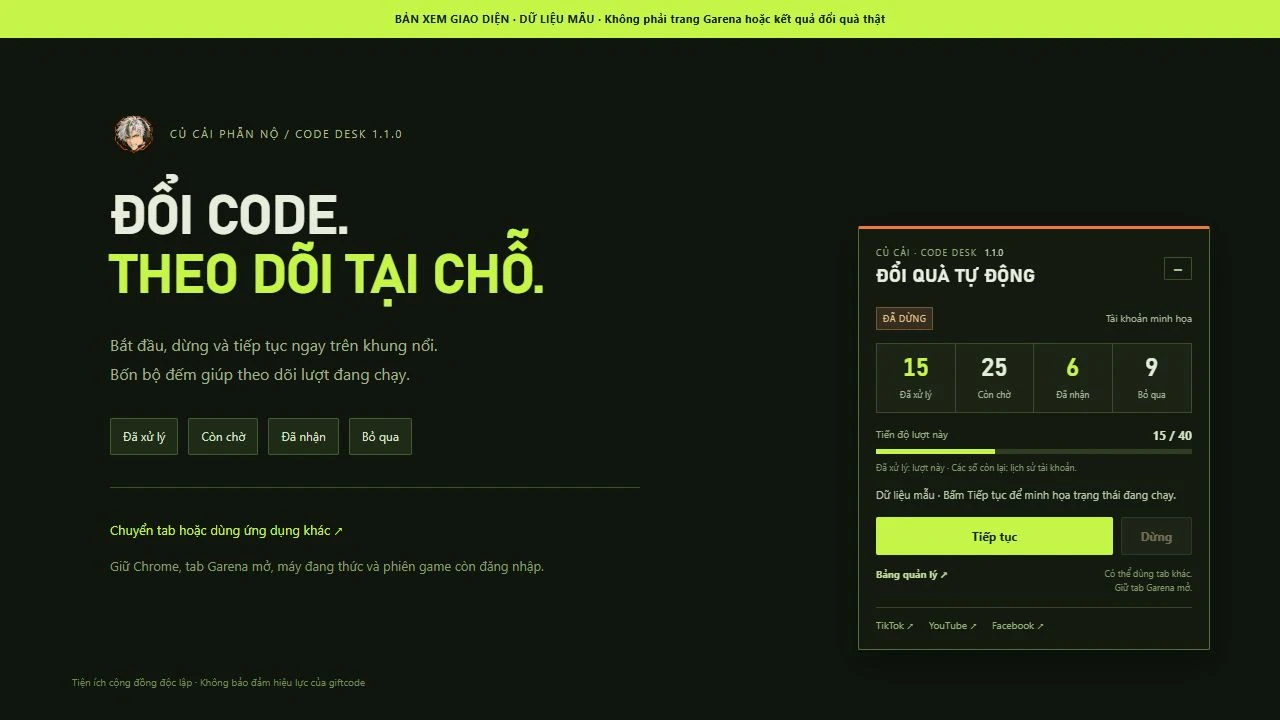
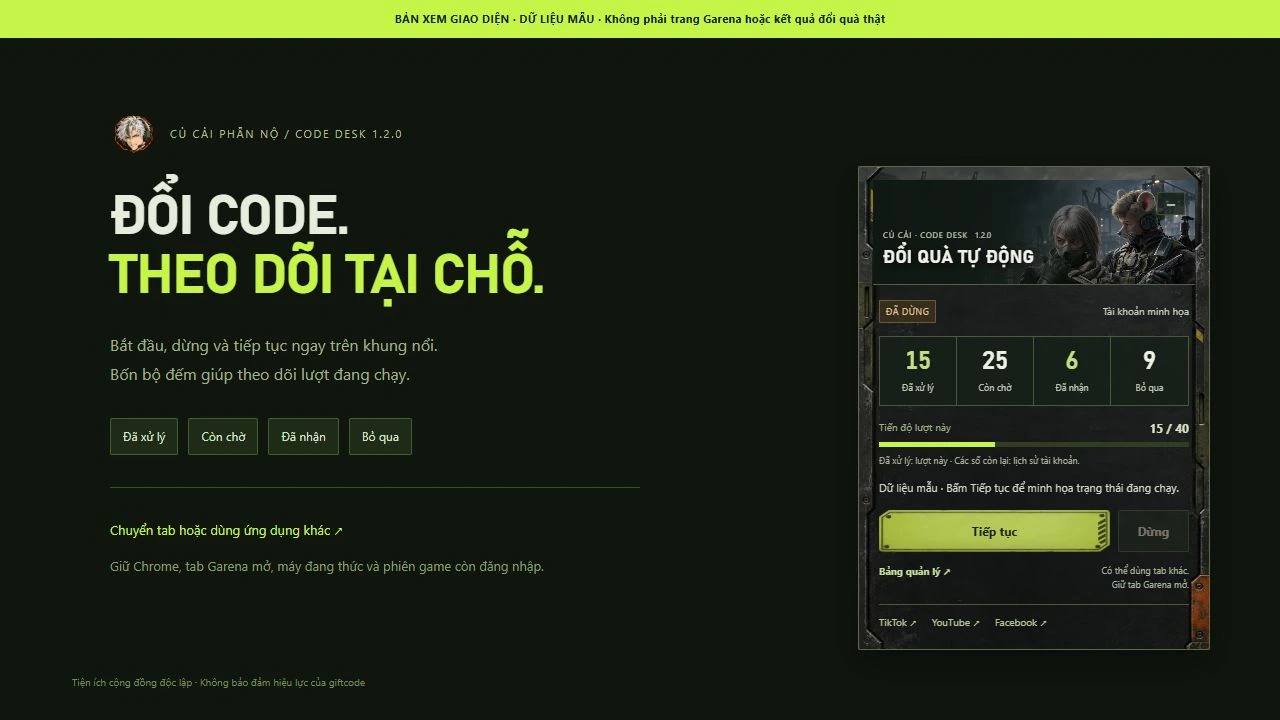
Upgrade Delta Force field artwork and source suggestions in 1.2.0

Changed region(s): [[0.6562, 0.2139, 0.9688, 0.8861], [0.6875, 0.8556, 0.8125, 0.8861], [0.9375, 0.7028, 0.9688, 0.7333]]

diff --git a/extension/options.html b/extension/options.html
@@ -1,15 +1,15 @@
 <!doctype html>
-<html lang="vi"><head><meta charset="utf-8"><meta name="viewport" content="width=device-width,initial-scale=1"><title>Củ Cải · Garena Code Desk</title><link rel="stylesheet" href="style.css"><link rel="stylesheet" href="tactical.css"></head>
-<body class="dashboard"><aside class="desk-sidebar"><a class="sidebar-brand" href="#tong-quan"><img src="icons/48.png" alt="Icon Code Desk" width="48" height="48"><span>CODE<br>DESK<span class="brand-dot">.</span></span></a><div class="sidebar-edition">CỦ CẢI PHẪN NỘ<br><b>DELTA FORCE / GARENA VN</b></div><nav class="sidebar-nav" aria-label="Điều hướng bảng quản lý"><a href="#tong-quan"><span>01</span> Tổng quan</a><a href="#nhap-code"><span>02</span> Nhập code</a><a href="#lich-nguon"><span>03</span> Lịch & nguồn</a><a href="#ket-qua"><span>04</span> Kết quả</a><a href="#gioi-thieu"><span>05</span> Giới thiệu</a></nav><div class="sidebar-bottom"><a href="help.html" target="_blank" rel="noopener">Hướng dẫn sử dụng ↗</a><a href="https://github.com/LightHaru/garena-code-desk" target="_blank" rel="noopener">GitHub & phiên bản mới ↗</a><span>1.1.2 / BẢN THỬ NGHIỆM</span></div></aside>
+<html lang="vi"><head><meta charset="utf-8"><meta name="viewport" content="width=device-width,initial-scale=1"><title>Củ Cải · Garena Code Desk</title><link rel="stylesheet" href="style.css"><link rel="stylesheet" href="tactical.css"><link rel="stylesheet" href="field.css"></head>
+<body class="dashboard"><aside class="desk-sidebar"><a class="sidebar-brand" href="#tong-quan"><img src="icons/48.png" alt="Icon Code Desk" width="48" height="48"><span>CODE<br>DESK<span class="brand-dot">.</span></span></a><div class="sidebar-edition">CỦ CẢI PHẪN NỘ<br><b>DELTA FORCE / GARENA VN</b></div><nav class="sidebar-nav" aria-label="Điều hướng bảng quản lý"><a href="#tong-quan"><span>01</span> Tổng quan</a><a href="#nhap-code"><span>02</span> Nhập code</a><a href="#lich-nguon"><span>03</span> Lịch & nguồn</a><a href="#ket-qua"><span>04</span> Kết quả</a><a href="#gioi-thieu"><span>05</span> Giới thiệu</a></nav><div class="sidebar-bottom"><a href="help.html" target="_blank" rel="noopener">Hướng dẫn sử dụng ↗</a><a href="https://github.com/LightHaru/garena-code-desk" target="_blank" rel="noopener">GitHub & phiên bản mới ↗</a><span>1.2.0 / BẢN THỬ NGHIỆM</span></div></aside>
 <div class="app-shell"><header class="app-header"><div class="header-path">CODE DESK <span>/</span> BẢNG ĐIỀU KHIỂN</div><div class="header-right"><span class="local-tag"><i></i> Dữ liệu trên máy</span><button id="open-site" class="secondary">Trang đổi quà ↗</button></div></header>
-<main><section class="intro" id="tong-quan"><div><div class="eyebrow">TIỆN ÍCH CỘNG ĐỒNG / 1.1.2</div><h2>GIFT CODE.<br><span>GỌN MỘT CHỖ.</span></h2><p>Thêm danh sách, quét nguồn mới và theo dõi từng lượt đổi.</p></div><div class="intro-actions"><button id="refresh" class="secondary">↻ Quét nguồn ngay</button><button id="start" class="primary">Bắt đầu đổi <span>↗</span></button><button id="pause" class="secondary danger">Dừng lượt</button></div></section>
+<main><section class="intro" id="tong-quan"><div><div class="eyebrow">TIỆN ÍCH CỘNG ĐỒNG / 1.2.0</div><h2>GIFT CODE.<br><span>GỌN MỘT CHỖ.</span></h2><p>Thêm danh sách, quét nguồn mới và theo dõi từng lượt đổi.</p></div><div class="intro-actions"><button id="refresh" class="secondary">↻ Quét nguồn ngay</button><button id="start" class="primary">Bắt đầu đổi <span>↗</span></button><button id="pause" class="secondary danger">Dừng lượt</button></div></section>
 <div id="notice" class="notice" role="status" hidden></div>
 <section class="stats-grid" aria-label="Thống kê code"><article><span>Trong hàng chờ</span><b id="stat-waiting">0</b><small id="stat-deferred">Sẵn sàng thử trên Garena</small></article><article><span>Đã nhận thành công</span><b id="stat-redeemed">0</b><small>Garena đã xác nhận</small></article><article><span>Đã tự bỏ qua</span><b id="stat-skipped">0</b><small>Đã dùng · hết hạn · hết lượt</small></article><article><span>Cần kiểm tra</span><b id="stat-review">0</b><small>Kết quả chưa rõ, vẫn giữ code</small></article></section>
 <section class="runner-bar"><div class="runner-symbol" id="runner-symbol">Ⅱ</div><div><div class="eyebrow" id="run-status">SẴN SÀNG</div><p id="run-reason">Đang đọc dữ liệu…</p></div><div class="runner-account"><small>TÀI KHOẢN GARENA</small><b id="account-name">Chưa kết nối</b></div></section>
-<div class="workspace-grid"><section class="card" id="nhap-code"><div class="section-index">02 / DANH SÁCH</div><div class="section-title"><h3>Thêm code của bạn</h3><span class="pill">TXT / CSV / JSON</span></div><p class="subtle">Dán code, mỗi dòng một mã. Chữ hoa/thường được giữ nguyên; code trùng tự bỏ qua.</p><textarea id="import-text" rows="5" placeholder="Dán danh sách giftcode vào đây…" aria-label="Danh sách code"></textarea><div class="button-row"><button id="import" class="primary">Thêm vào hàng chờ</button><label class="file-button secondary">Chọn file<input type="file" id="import-file" accept=".txt,.csv,.json,text/plain,application/json"></label></div><small class="hint" id="seed-info"></small></section>
+<div class="workspace-grid"><section class="card" id="nhap-code"><div class="section-index">02 / DANH SÁCH</div><div class="section-title"><h3>Thêm code của bạn</h3><span class="pill">TXT / CSV / JSON</span></div><p class="subtle">Dán code, mỗi dòng một mã. Chữ hoa/thường được giữ nguyên; code trùng tự bỏ qua.</p><textarea id="import-text" rows="5" placeholder="Dán danh sách giftcode vào đây…" aria-label="Danh sách code"></textarea><div class="button-row"><button id="import" class="primary">Thêm vào hàng chờ</button><label class="file-button secondary">Chọn file<input type="file" id="import-file" accept=".txt,.csv,.json,text/plain,application/json"></label></div><div class="research-import"><button id="research-codes" class="secondary" type="button">Dán 2 mã tìm thêm · 18/10</button><p class="hint">WELCOMETODF · DFVNA4T8Z6P3 — ứng viên từ nhiều nguồn, chưa đổi thử.</p></div><small class="hint" id="seed-info"></small></section>
 <section class="card schedule-card" id="lich-nguon"><div class="section-index">03 / TỰ ĐỘNG</div><div class="section-title"><h3>Lịch & nhịp xử lý</h3><span class="pill">Giờ Việt Nam</span></div><label class="switch-row"><span>Quét nguồn hằng ngày</span><input type="checkbox" id="daily-enabled"></label><div class="form-row"><label>Giờ quét<input type="time" id="daily-time" value="09:00"></label><label>Chờ giữa hai code<select id="delay"><option value="3">3 giây</option><option value="5">5 giây</option><option value="8">8 giây</option><option value="10">10 giây</option><option value="15">15 giây</option><option value="30">30 giây</option><option value="60">60 giây</option></select></label></div><label class="switch-row"><span>Quét xong, tự mở Garena và đổi code mới</span><input type="checkbox" id="auto-redeem"></label><div class="button-row"><button id="save-settings" class="secondary">Lưu lịch</button><small id="next-alarm" class="hint"></small></div><p class="footnote">Cần mở Chrome và đăng nhập Garena. Nếu máy ngủ hoặc Chrome đóng, lịch được kiểm tra bù khi mở lại.</p></section></div>
-<section class="card sources-card"><div class="section-title"><div><h3>Nguồn lấy code</h3><p class="subtle" id="crawl-summary">Đang đọc nguồn…</p></div><button id="add-source-toggle" class="secondary">+ Thêm nguồn</button></div><div id="sources"></div><form id="source-form" class="source-form" hidden><label>Tên nguồn<input id="source-name" placeholder="Tên dễ nhớ"></label><label>URL HTTPS<input id="source-url" type="url" placeholder="https://…" required></label><div class="form-row"><label>Định dạng<select id="source-kind"><option value="html">Trang HTML</option><option value="text">Danh sách TXT / CSV</option><option value="json">JSON: mảng code / {codes: [...]}</option></select></label><label>Vùng chứa code (tùy chọn)<input id="source-selector" placeholder="Ví dụ: table tbody td:first-child"></label></div><button class="primary" type="submit">Cấp quyền & thêm nguồn</button></form><p class="footnote">XemGì là nguồn cộng đồng. Bộ quét Garena đọc bài tin công khai có chữ; code trong ảnh, video hoặc bình luận cần dán bổ sung.</p></section>
+<section class="card sources-card"><div class="section-title"><div><h3>Nguồn lấy code</h3><p class="subtle" id="crawl-summary">Đang đọc nguồn…</p></div><button id="add-source-toggle" class="secondary">+ Thêm nguồn</button></div><div id="sources"></div><form id="source-form" class="source-form" hidden><div class="source-presets"><label>Chọn nguồn đã khảo sát<select id="source-preset"><option value="">Tự nhập nguồn khác</option><option value="codemoi">Code Mới · 20 mã đọc được</option><option value="fpt">FPT Shop · 11 mã đọc được</option><option value="dienmayxanh">Điện máy XANH · 19 mã đọc được</option></select></label><p>Khảo sát 18/10/2026. Chọn nguồn để điền sẵn, sau đó bấm Cấp quyền & thêm nguồn. Số mã có thể thay đổi; hiệu lực do Garena xác nhận.</p></div><label>Tên nguồn<input id="source-name" placeholder="Tên dễ nhớ"></label><label>URL HTTPS<input id="source-url" type="url" placeholder="https://…" required></label><div class="form-row"><label>Định dạng<select id="source-kind"><option value="html">Trang HTML</option><option value="text">Danh sách TXT / CSV</option><option value="json">JSON: mảng code / {codes: [...]}</option></select></label><label>Vùng chứa code (tùy chọn)<input id="source-selector" placeholder="Ví dụ: table tbody td:first-child"></label></div><button class="primary" type="submit">Cấp quyền & thêm nguồn</button></form><p class="footnote">XemGì là nguồn cộng đồng. Bộ quét Garena đọc bài tin công khai có chữ; code trong ảnh, video hoặc bình luận cần dán bổ sung.</p></section>
 <section class="card codes-card" id="ket-qua"><div class="section-index">04 / NHẬT KÝ</div><div class="section-title"><div><h3>Danh sách & kết quả</h3><p class="subtle" id="code-count">0 code</p></div><div class="table-tools"><input type="search" id="search" placeholder="Tìm code…" aria-label="Tìm code"><select id="filter" aria-label="Lọc trạng thái"><option value="queue">Hàng chờ</option><option value="all">Tất cả</option><option value="redeemed">Đã nhận</option><option value="archived">Đã bỏ qua / loại</option><option value="review">Cần kiểm tra</option></select><button id="export" class="secondary">Xuất lịch sử</button></div></div><div class="table-wrap"><table><thead><tr><th>GIFT CODE</th><th>NGUỒN</th><th>TRẠNG THÁI</th><th>PHẢN HỒI GẦN NHẤT</th><th></th></tr></thead><tbody id="codes"></tbody></table></div><div class="table-footer"><small id="page-label"></small><div><button id="previous" class="secondary">← Trước</button><button id="next" class="secondary">Sau →</button></div></div></section>
-<section class="creator-card" id="gioi-thieu"><div class="creator-art"><img src="assets/code-desk-cover.webp" alt="Củ Cải Code Desk — Auto nhập code Delta Force, miễn phí" width="640" height="360" loading="lazy"></div><div class="creator-content"><div class="section-index">05 / NGƯỜI LÀM TIỆN ÍCH</div><div class="creator-heading"><img src="assets/creator-avatar.png" alt="Avatar anime của Củ Cải Phẫn Nộ" width="64" height="64"><div><h3>CỦ CẢI PHẪN NỘ</h3><p>Delta Force · Hướng dẫn · Gameplay</p></div></div><p>Một góc dành cho anh em mê Delta Force: chuyện loot, những pha dở khóc dở cười và hướng dẫn dễ làm theo. Code Desk giúp bớt thời gian nhập từng code.</p><nav class="social-links" aria-label="Theo dõi Củ Cải Phẫn Nộ"><a href="https://www.tiktok.com/@cucaiphannodf" target="_blank" rel="noopener noreferrer">TikTok ↗</a><a href="https://www.youtube.com/@CucaiDF" target="_blank" rel="noopener noreferrer">YouTube ↗</a><a href="https://www.facebook.com/profile.php?id=61594886253423" target="_blank" rel="noopener noreferrer">Facebook ↗</a></nav><div class="footer-utility"><a href="help.html" target="_blank" rel="noopener">Cách dùng Code Desk →</a><a href="https://github.com/LightHaru/garena-code-desk/issues" target="_blank" rel="noopener">Gửi báo lỗi ↗</a></div></div></section>
-<footer><b>CODE DESK / 1.1.2 BETA</b> · Tên hiển thị Garena, code và lịch sử lưu trong Chrome này.<br><a href="privacy.html" target="_blank" rel="noopener">Quyền riêng tư & quyền truy cập</a> · Tiện ích cộng đồng độc lập của Củ Cải Phẫn Nộ.<br><span>Có thể dùng tab khác khi đang chạy; giữ Chrome và tab Garena mở, máy đang thức.</span></footer></main></div>
-<script src="core.js"></script><script src="ui-common.js"></script><script src="options.js"></script></body></html>
+<section class="creator-card" id="gioi-thieu"><div class="creator-art"><img src="assets/operators-v1.2.0.webp" alt="Hackclaw và Stinger — minh họa Delta Force của Code Desk" width="640" height="360" loading="lazy"></div><div class="creator-content"><div class="section-index">05 / NGƯỜI LÀM TIỆN ÍCH</div><div class="creator-heading"><img src="assets/creator-avatar.png" alt="Avatar anime của Củ Cải Phẫn Nộ" width="64" height="64"><div><h3>CỦ CẢI PHẪN NỘ</h3><p>Delta Force · Hướng dẫn · Gameplay</p></div></div><p>Một góc dành cho anh em mê Delta Force: chuyện loot, những pha dở khóc dở cười và hướng dẫn dễ làm theo. Code Desk giúp bớt thời gian nhập từng code.</p><nav class="social-links" aria-label="Theo dõi Củ Cải Phẫn Nộ"><a href="https://www.tiktok.com/@cucaiphannodf" target="_blank" rel="noopener noreferrer">TikTok ↗</a><a href="https://www.youtube.com/@CucaiDF" target="_blank" rel="noopener noreferrer">YouTube ↗</a><a href="https://www.facebook.com/profile.php?id=61594886253423" target="_blank" rel="noopener noreferrer">Facebook ↗</a></nav><div class="footer-utility"><a href="help.html" target="_blank" rel="noopener">Cách dùng Code Desk →</a><a href="https://github.com/LightHaru/garena-code-desk/issues" target="_blank" rel="noopener">Gửi báo lỗi ↗</a></div></div></section>
+<footer><b>CODE DESK / 1.2.0 BETA</b> · Tên hiển thị Garena, code và lịch sử lưu trong Chrome này.<br><a href="privacy.html" target="_blank" rel="noopener">Quyền riêng tư & quyền truy cập</a> · Tiện ích cộng đồng độc lập của Củ Cải Phẫn Nộ.<br><span>Có thể dùng tab khác khi đang chạy; giữ Chrome và tab Garena mở, máy đang thức.</span></footer></main></div>
+<script src="core.js"></script><script src="ui-common.js"></script><script src="source-suggestions.js"></script><script src="options.js"></script></body></html>

diff --git a/extension/help.html b/extension/help.html
@@ -1,18 +1,18 @@
 <!doctype html>
 <html lang="vi">
-<head><meta charset="utf-8"><meta name="viewport" content="width=device-width,initial-scale=1"><title>Hướng dẫn · Củ Cải Code Desk</title><link rel="stylesheet" href="style.css"><link rel="stylesheet" href="tactical.css"></head>
+<head><meta charset="utf-8"><meta name="viewport" content="width=device-width,initial-scale=1"><title>Hướng dẫn · Củ Cải Code Desk</title><link rel="stylesheet" href="style.css"><link rel="stylesheet" href="tactical.css"><link rel="stylesheet" href="field.css"></head>
 <body class="guide">
-  <header class="guide-header"><div class="brand"><img class="brand-mark" src="icons/48.png" alt="Icon Code Desk" width="48" height="48"><div><small>CỦ CẢI PHẪN NỘ / 1.1.2 BETA</small><h1>CODE DESK<span class="brand-dot">.</span></h1></div></div><a href="options.html">Bảng quản lý ↗</a></header>
-  <img class="guide-hero" src="assets/code-desk-cover.webp" alt="Auto nhập code Delta Force — Code Desk miễn phí" width="640" height="360">
+  <header class="guide-header"><div class="brand"><img class="brand-mark" src="icons/48.png" alt="Icon Code Desk" width="48" height="48"><div><small>CỦ CẢI PHẪN NỘ / 1.2.0 BETA</small><h1>CODE DESK<span class="brand-dot">.</span></h1></div></div><a href="options.html">Bảng quản lý ↗</a></header>
+  <img class="guide-hero" src="assets/operators-v1.2.0.webp" alt="Hackclaw và Stinger chuột quân y — giao diện Code Desk 1.2.0" width="960" height="541">
   <h2>BẮT ĐẦU CÙNG CODE DESK.</h2>
   <p class="guide-intro">Tiện ích cộng đồng của Củ Cải Phẫn Nộ, giúp nhập lần lượt giftcode trên trang Garena Delta Force, theo dõi kết quả và nhớ code đã xử lý. Bản miễn phí tải qua GitHub, dùng trên Chrome máy tính.</p>
-  <section class="guide-step"><span class="step-number">01</span><div><h3>Cài từ thư mục đã giải nén</h3><ol><li>Tải file <strong>Garena-Code-Desk-v1.1.2.zip</strong> từ <a href="https://github.com/LightHaru/garena-code-desk/releases/tag/v1.1.2" target="_blank" rel="noopener">trang phát hành</a>, giải nén vào thư mục cố định.</li><li>Nhập <code>chrome://extensions</code> vào thanh địa chỉ Chrome, bật <strong>Chế độ dành cho nhà phát triển / Developer mode</strong>.</li><li>Bấm <strong>Tải tiện ích đã giải nén / Load unpacked</strong>, chọn thư mục <code>extension</code> chứa <code>manifest.json</code>.</li><li>Bấm biểu tượng mảnh ghép để ghim Code Desk. Giữ nguyên thư mục đã nạp.</li></ol><p>Ở phần Assets của GitHub, chọn đúng ZIP đã đóng gói theo tên trên. “Source code” là bản chụp toàn bộ repository do GitHub tự tạo. <a href="https://developer.chrome.com/docs/extensions/get-started/tutorial/hello-world#load-an-unpacked-extension" target="_blank" rel="noopener">Xem hướng dẫn của Chrome ↗</a></p></div></section>
+  <section class="guide-step"><span class="step-number">01</span><div><h3>Cài từ thư mục đã giải nén</h3><ol><li>Tải file <strong>Garena-Code-Desk-v1.2.0.zip</strong> từ <a href="https://github.com/LightHaru/garena-code-desk/releases/tag/v1.2.0" target="_blank" rel="noopener">trang phát hành</a>, giải nén vào thư mục cố định.</li><li>Nhập <code>chrome://extensions</code> vào thanh địa chỉ Chrome, bật <strong>Chế độ dành cho nhà phát triển / Developer mode</strong>.</li><li>Bấm <strong>Tải tiện ích đã giải nén / Load unpacked</strong>, chọn thư mục <code>extension</code> chứa <code>manifest.json</code>.</li><li>Bấm biểu tượng mảnh ghép để ghim Code Desk. Giữ nguyên thư mục đã nạp.</li></ol><p>Ở phần Assets của GitHub, chọn đúng ZIP đã đóng gói theo tên trên. “Source code” là bản chụp toàn bộ repository do GitHub tự tạo. <a href="https://developer.chrome.com/docs/extensions/get-started/tutorial/hello-world#load-an-unpacked-extension" target="_blank" rel="noopener">Xem hướng dẫn của Chrome ↗</a></p></div></section>
   <section class="guide-step"><span class="step-number">02</span><div><h3>Đăng nhập và bắt đầu ngay trên Garena</h3><p>Mở <a href="https://redeem.df.garena.sg/vi/cdkgarena.html" target="_blank" rel="noopener">trang đổi quà Garena</a>, đăng nhập tài khoản game và kiểm tra đúng tên tài khoản. Trong khung Code Desk ở góc trang, bấm <strong>Bắt đầu</strong>. Có thể <strong>Dừng</strong>, <strong>Tiếp tục</strong> và thu gọn tại chỗ.</p><p>Đăng nhập tài khoản Google trên Chrome là phiên riêng, không thay cho đăng nhập Garena. Code Desk không yêu cầu bạn nhập mật khẩu game vào tiện ích.</p><p>Bạn có thể dùng tab hoặc ứng dụng khác. Giữ Chrome, tab Garena mở và máy đang thức. Nếu gặp CAPTCHA hoặc hết phiên, hoàn tất trực tiếp trên Garena rồi tiếp tục.</p></div></section>
-  <section class="guide-step"><span class="step-number">03</span><div><h3>Lấy code mới hoặc thêm danh sách</h3><p>Trong popup, <strong>Quét nguồn & đổi ngay</strong> sẽ quét nguồn rồi mở lượt đổi. Muốn tự chọn thời điểm, mở bảng quản lý, dùng <strong>Quét nguồn ngay</strong> hoặc dán danh sách tại <strong>Thêm code của bạn</strong>, mỗi dòng một code. Có thể chọn file TXT, CSV hoặc JSON.</p><p>Lịch quét mặc định 09:00 giờ Việt Nam. <strong>Quét xong, tự mở Garena và đổi code mới</strong> là tùy chọn riêng, mặc định tắt. Code trong ảnh, video và bình luận cần nhập bổ sung; bộ quét hiện đọc nguồn chữ công khai.</p></div></section>
+  <section class="guide-step"><span class="step-number">03</span><div><h3>Lấy code mới hoặc thêm danh sách</h3><p>Trong popup, <strong>Quét nguồn & đổi ngay</strong> sẽ quét nguồn rồi mở lượt đổi. Muốn tự chọn thời điểm, mở bảng quản lý, dùng <strong>Quét nguồn ngay</strong> hoặc dán danh sách tại <strong>Thêm code của bạn</strong>, mỗi dòng một code. Có thể chọn file TXT, CSV hoặc JSON.</p><p>Lịch quét mặc định 09:00 giờ Việt Nam. <strong>Quét xong, tự mở Garena và đổi code mới</strong> là tùy chọn riêng, mặc định tắt. Code trong ảnh, video và bình luận cần nhập bổ sung; bộ quét hiện đọc nguồn chữ công khai.</p><p>Trong <strong>Thêm nguồn</strong>, chọn Code Mới, FPT Shop hoặc Điện máy XANH để điền sẵn URL và vùng chứa code, rồi bấm <strong>Cấp quyền &amp; thêm nguồn</strong>. Chrome chỉ hỏi quyền đọc tên miền bạn chọn. Nút <strong>Dán 2 mã tìm thêm · 18/10</strong> điền hai ứng viên vào ô; bấm Thêm vào hàng chờ để nhập.</p></div></section>
   <section class="guide-step"><span class="step-number">04</span><div><h3>Đọc bộ đếm và kết quả</h3><ul><li><strong>Đã xử lý:</strong> số code đã xử lý trong lượt hiện tại.</li><li><strong>Còn chờ:</strong> code đang chờ theo trạng thái tài khoản; một số có giờ thử lại.</li><li><strong>Đã nhận / Bỏ qua:</strong> kết quả đã lưu trong lịch sử tài khoản hiển thị.</li><li><strong>Lỗi cấu hình gói quà:</strong> hoãn code đó ít nhất 24 giờ rồi tiếp tục các code khác.</li><li><strong>Kết quả chưa rõ:</strong> giữ code để kiểm tra; không tự xem là đã nhận quà.</li></ul><p>Dùng tìm kiếm và bộ lọc trong <strong>Danh sách & kết quả</strong> để xem chi tiết. Code tìm thấy là ứng viên; hiệu lực và quyền nhận quà do Garena quyết định.</p></div></section>
-  <section class="guide-step"><span class="step-number">05</span><div><h3>Cập nhật và hỗ trợ</h3><p>Bấm Dừng, chờ code đang gửi có kết quả. Tải ZIP mới, chép nội dung <code>extension</code> vào đúng thư mục cũ, bấm <strong>Tải lại</strong> trên thẻ tiện ích, kiểm tra phiên bản <strong>1.1.2</strong> rồi tải lại trang Garena. Bản cài từ thư mục cập nhật thủ công.</p><p>Khi kiểm tra lại lỗi CSP, xóa báo cáo cũ trong mục <strong>Lỗi</strong> của tiện ích rồi mới chạy lượt mới. Báo cáo cũ có thể vẫn nằm trong danh sách sau khi cập nhật.</p><p>Gửi lỗi tại <a href="https://github.com/LightHaru/garena-code-desk/issues" target="_blank" rel="noopener">GitHub Issues</a> kèm phiên bản và thông báo. Issues là nơi công khai; chỉ chia sẻ phần cần thiết, tránh mật khẩu, cookie, OTP và token.</p></div></section>
-  <section class="guide-step"><span class="step-number">ẢNH</span><div><h3>Nhận diện các nút trong bản mới</h3><p>Hai ảnh dưới dùng đúng mã giao diện tiện ích với dữ liệu mẫu. Chúng là bản xem giao diện, chưa phải ảnh xác nhận đã cài hoặc đổi quà trên tài khoản thật.</p><figure><img src="assets/help-panel.webp" alt="Bản xem khung nổi: Tiếp tục, Dừng, bốn bộ đếm và tiến độ" width="1280" height="720" loading="lazy"><figcaption>Khung nổi · Khi mới mở sẽ có Bắt đầu; khi đã dừng có Tiếp tục.</figcaption></figure><figure><img src="assets/help-popup.webp" alt="Bản xem popup: Quét nguồn và đổi ngay, Tiếp tục đổi, hướng dẫn và ba kênh Củ Cải" width="400" height="680" loading="lazy"><figcaption>Popup · Bấm Quét nguồn & đổi ngay để cập nhật trước khi chạy; dấu ? mở hướng dẫn này.</figcaption></figure></div></section>
+  <section class="guide-step"><span class="step-number">05</span><div><h3>Cập nhật và hỗ trợ</h3><p>Bấm Dừng, chờ code đang gửi có kết quả. Tải ZIP mới, chép nội dung <code>extension</code> vào đúng thư mục cũ, bấm <strong>Tải lại</strong> trên thẻ tiện ích, kiểm tra phiên bản <strong>1.2.0</strong> rồi tải lại trang Garena. Bản cài từ thư mục cập nhật thủ công.</p><p>Khi kiểm tra lại lỗi CSP, xóa báo cáo cũ trong mục <strong>Lỗi</strong> của tiện ích rồi mới chạy lượt mới. Báo cáo cũ có thể vẫn nằm trong danh sách sau khi cập nhật.</p><p>Gửi lỗi tại <a href="https://github.com/LightHaru/garena-code-desk/issues" target="_blank" rel="noopener">GitHub Issues</a> kèm phiên bản và thông báo. Issues là nơi công khai; chỉ chia sẻ phần cần thiết, tránh mật khẩu, cookie, OTP và token.</p></div></section>
+  <section class="guide-step"><span class="step-number">ẢNH</span><div><h3>Nhận diện các nút trong bản mới</h3><p>Các ảnh dưới chụp lại từ bản 1.2.0, dùng đúng mã giao diện tiện ích với dữ liệu mẫu. Chúng là bản xem giao diện, chưa phải ảnh xác nhận đã cài hoặc đổi quà trên tài khoản thật.</p><figure><img src="assets/help-dashboard.webp" alt="Bảng quản lý Code Desk 1.2.0 — dữ liệu mẫu" width="1280" height="720" loading="lazy"><figcaption>Bảng quản lý 1.2.0 · Quét nguồn, Bắt đầu đổi và các bộ đếm.</figcaption></figure><figure><img src="assets/help-panel.webp" alt="Bản xem khung nổi: Tiếp tục, Dừng, bốn bộ đếm và tiến độ" width="1280" height="720" loading="lazy"><figcaption>Khung nổi · Khi mới mở sẽ có Bắt đầu; khi đã dừng có Tiếp tục.</figcaption></figure><figure><img src="assets/help-popup.webp" alt="Bản xem popup: Quét nguồn và đổi ngay, Tiếp tục đổi, hướng dẫn và ba kênh Củ Cải" width="400" height="600" loading="lazy"><figcaption>Popup · Bấm Quét nguồn & đổi ngay để cập nhật trước khi chạy; dấu ? mở hướng dẫn này.</figcaption></figure><figure><img src="assets/help-popup-bottom.webp" alt="Bản xem cuối popup: khung nền còn nguyên khi cuộn tới ba kênh Củ Cải" width="400" height="600" loading="lazy"><figcaption>Cuối popup · Khung nền cố định vẫn hiện khi cuộn xuống các liên kết kênh.</figcaption></figure></div></section>
   <div class="guide-note">BẢN THỬ NGHIỆM · Kiểm tra logic và trình duyệt giả lập không thay cho việc đổi quà trên tài khoản Garena thật. Không bảo đảm mọi code còn hiệu lực. Tên hiển thị được dùng để phân lịch sử; tài khoản trùng tên nên dùng hồ sơ Chrome riêng.</div>
   <section class="creator-card"><div class="creator-art"><img src="assets/creator-avatar.png" alt="Avatar anime Củ Cải Phẫn Nộ" width="150" height="150"></div><div class="creator-content"><h3>CỦ CẢI PHẪN NỘ</h3><p>Hướng dẫn dễ làm theo, chuyện loot và những pha gameplay Delta Force dở khóc dở cười. Theo dõi Củ Cải ở đây:</p><nav class="social-links" aria-label="Ba kênh Củ Cải Phẫn Nộ"><a href="https://www.tiktok.com/@cucaiphannodf" target="_blank" rel="noopener noreferrer">TikTok ↗</a><a href="https://www.youtube.com/@CucaiDF" target="_blank" rel="noopener noreferrer">YouTube ↗</a><a href="https://www.facebook.com/profile.php?id=61594886253423" target="_blank" rel="noopener noreferrer">Facebook ↗</a></nav></div></section>
-  <footer>CODE DESK 1.1.2 BETA · Tiện ích cộng đồng độc lập, không đại diện hoặc được Garena/Google bảo trợ.<br><a href="privacy.html">Quyền riêng tư & quyền truy cập</a> · <a href="https://lightharu.github.io/garena-code-desk-site/" target="_blank" rel="noopener">Trang tải chính thức của tiện ích</a></footer>
+  <footer>CODE DESK 1.2.0 BETA · Tiện ích cộng đồng độc lập, không đại diện hoặc được Garena/Google bảo trợ.<br><a href="privacy.html">Quyền riêng tư & quyền truy cập</a> · <a href="https://lightharu.github.io/garena-code-desk-site/" target="_blank" rel="noopener">Trang tải chính thức của tiện ích</a></footer>
 </body></html>

diff --git a/extension/panel.js b/extension/panel.js
@@ -1,5 +1,11 @@
 (function (root) {
   "use strict";
+  const scriptUrl = document.currentScript?.src;
+  function art(filename) {
+    return root.chrome?.runtime?.getURL
+      ? root.chrome.runtime.getURL(`assets/${filename}`)
+      : new URL(`assets/${filename}`, scriptUrl || document.baseURI).href;
+  }
   function create({ onStart, onPause, onOpen }) {
     const host = document.createElement("div");
     host.id = "cc-garena-code-desk";
@@ -14,9 +20,13 @@
       .scope{font-size:10px;color:#819b90;line-height:1.5;margin:7px 0 0}.message{font-size:12px;line-height:1.55;color:#c1d2cb;overflow-wrap:anywhere;margin:12px 0;min-height:19px}.note{font-size:10px;color:#98afa4;margin:0 0 12px;line-height:1.5}.buttons{display:flex;gap:8px}button{font:650 13px system-ui,sans-serif;border:0;border-radius:9px;padding:10px 13px;cursor:pointer;background:#e0f3b5;color:#19291c}button:focus-visible{outline:2px solid #c7e49d;outline-offset:3px}button:disabled{opacity:.48;cursor:default}.start{flex:1}.stop{background:#293e47;color:#eaf4f0;min-width:71px}.hide{padding:3px 8px;background:transparent;color:#adbbb6;font-size:20px;line-height:1}.bottom{margin-top:12px;align-items:flex-start}.open{padding:0;background:transparent;color:#bed692;font-size:11px;text-align:left}.hint{font-size:10px;line-height:1.5;color:#859e92;max-width:155px;text-align:right}
       .box{font-family:"Segoe UI",system-ui,sans-serif;width:352px;background:#141a10;color:#e9efdf;border:1px solid #596c3c;border-top:3px solid #ed7a38;border-radius:2px;padding:17px;box-shadow:0 10px 30px #0006}
       .title{font-family:"Bahnschrift","Arial Narrow",sans-serif;font-size:19px;font-weight:750;letter-spacing:.3px}.brand{color:#94a779;font-size:9px;letter-spacing:1.1px;margin-bottom:4px}.brand span{color:#c1cdb0;letter-spacing:0;margin-left:4px}.mini{color:#a8bc8c}.state-row{margin-top:15px}.status{border-radius:1px;background:#26371a;border:1px solid #536b37;color:#d4edaf;font-size:9px;padding:4px 6px}.status[data-state=paused]{background:#352d1d;border-color:#715732;color:#ebc38e}.account{color:#a9b69a;font-size:10px;max-width:165px}.counts{gap:0;border:1px solid #3d4a2d;margin:13px 0}.count{padding:10px 3px;border:0;border-right:1px solid #3d4a2d;background:#1c2416;border-radius:0}.count:last-child{border-right:0}.number{font-family:"Bahnschrift","Arial Narrow",sans-serif;font-size:25px;font-weight:500;color:#e3ecd6}.count:first-child .number,.count.success .number{color:#c4f547}.count span{color:#a4b393;font-size:9px}.progress-label{font-size:10px;color:#9daf85}.progress-label b{color:#d5e2c2}progress{height:5px;border-radius:0;background:#303d23;accent-color:#c4f547}progress::-webkit-progress-bar{background:#303d23}progress::-webkit-progress-value{background:#c4f547;border-radius:0}.scope{color:#81966b;font-size:9px}.message{font-size:11px;color:#bacaab;margin:12px 0}.note{color:#b7a97c;font-size:10px}.buttons button{border-radius:2px;background:#c4f547;font-size:12px;font-weight:750;min-height:38px;color:#19250a}.buttons .stop{background:#27311e;border:1px solid #4a5b35;color:#dfc3a4}.hide{border:1px solid #3d4e2b;border-radius:1px;padding:2px 7px;color:#aabc92;font-size:17px}.open{color:#c4dc9f;font-size:10px}.hint{font-size:9px;color:#82976b}.channels{display:flex;gap:15px;flex-wrap:wrap;margin-top:13px;padding-top:10px;border-top:1px solid #344428}.channels a{font:10px "Segoe UI",sans-serif;color:#96b478;text-decoration:none}.channels a:hover{color:#c4f547;text-decoration:underline}.channels a:focus-visible{outline:2px solid #c4f547;outline-offset:3px}
-      @media(max-width:360px){.box{padding:13px}.number{font-size:22px}.hint{max-width:125px}}
+      .box{padding:20px;background:#111813 url("${art('field-console-v1.2.0.webp')}") center/100% 100%;border:1px solid #62664c;border-top-width:1px;color:#edf0e4}
+      .top{min-height:105px;margin:-7px -6px 0;padding:12px 10px;align-items:flex-end;background-image:linear-gradient(90deg,#101813 0%,#101813e6 41%,#1018130a 80%),url("${art('operators-v1.2.0.webp')}");background-size:cover;background-position:center top;border-bottom:1px solid #536045}
+      .top>div{max-width:215px}.top .hide{align-self:flex-start;background:#131b15b3;flex:none}.brand{color:#c4d0b2;font-size:8px;letter-spacing:.7px}.title{font-size:18px;color:#f0f2e7;text-shadow:0 2px 9px #000}.count{background:#172019eb;border-color:#4a583c}.counts{border-color:#4a583c}.count span{color:#bec8af}.number{color:#eef1e2}.count:first-child .number,.count.success .number{color:#c4df80}.message{color:#d1d8c5}.account{color:#c4ccb8}.scope,.hint{color:#a5b497}.buttons .start{background:transparent url("${art('field-button-v1.2.0.webp')}") center/100% 100%;color:#18220b;padding:11px 22px;min-height:42px;border:0}.buttons .start:hover:enabled{filter:brightness(1.1)}.buttons .stop{background:#202b20e8;color:#eed3b9}.channels{border-color:#4b593f}.channels a{color:#b4c99a}.open{color:#c4df9c}
+      .box:has(.body[hidden]){padding:13px 17px}.box:has(.body[hidden]) .top{min-height:60px;padding:8px 10px}
+      @media(max-width:360px){.box{padding:16px}.number{font-size:22px}.hint{max-width:125px}.title{font-size:16px}.top>div{max-width:185px}}
     </style><section class="box" aria-label="Garena Code Desk">
-      <div class="top"><div><div class="brand">CỦ CẢI · CODE DESK <span>1.1.0</span></div><b class="title">ĐỔI QUÀ TỰ ĐỘNG</b><div class="mini" hidden></div></div><button class="hide" aria-label="Thu gọn" aria-expanded="true">−</button></div>
+      <div class="top"><div><div class="brand">CỦ CẢI · CODE DESK <span>1.2.0</span></div><b class="title">ĐỔI QUÀ TỰ ĐỘNG</b><div class="mini" hidden></div></div><button class="hide" aria-label="Thu gọn" aria-expanded="true">−</button></div>
       <div class="body"><div class="state-row"><span class="status" data-state="idle">ĐANG KẾT NỐI</span><span class="account"></span></div>
       <div class="counts" aria-label="Bộ đếm code"><div class="count"><b class="number" data-count="processed">0</b><span>Đã xử lý</span></div><div class="count"><b class="number" data-count="waiting">0</b><span>Còn chờ</span></div><div class="count success"><b class="number" data-count="redeemed">0</b><span>Đã nhận</span></div><div class="count"><b class="number" data-count="skipped">0</b><span>Bỏ qua</span></div></div>
       <div class="progress-label"><span>Tiến độ lượt này</span><b class="progress-text">0 / 0</b></div><progress max="1" value="0" aria-label="Tiến độ lượt đổi code"></progress>

diff --git a/extension/field.css b/extension/field.css
@@ -1,0 +1,53 @@
+/* Generated field equipment artwork. Labels and controls stay native HTML. */
+:root{--accent:#c4df80;--field-button:url("assets/field-button-v1.2.0.webp");--field-console:url("assets/field-console-v1.2.0.webp");--field-operators:url("assets/operators-v1.2.0.webp")}
+.primary{background-color:transparent;background-image:var(--field-button);background-size:100% 100%;background-repeat:no-repeat;border:0;color:#17200b;padding:12px 25px;min-height:46px;box-shadow:none}
+.primary:hover:enabled{background-color:transparent;filter:brightness(1.08)}
+.primary:active:enabled{filter:brightness(.94)}
+button:disabled{filter:grayscale(.35);opacity:.45}
+.secondary,.file-button{background-image:linear-gradient(#18211bdf,#18211bdf),var(--field-button);background-size:100% 100%;background-repeat:no-repeat;border-color:#4a5140}
+.secondary:hover:enabled,.file-button:hover{background-color:#263329;background-image:linear-gradient(#223227cf,#223227cf),var(--field-button)}
+.popup{position:relative;isolation:isolate;background:none;padding-right:21px;padding-left:21px;max-width:100%;overflow-x:hidden;color:#eef0e7;overscroll-behavior-y:contain;scrollbar-gutter:stable}
+.popup::before{content:"";position:fixed;inset:0;z-index:-1;pointer-events:none;background:#101613 var(--field-console) center/100% 100% no-repeat}
+.popup-topline{margin-left:-21px;margin-right:-21px;padding-left:21px;padding-right:21px;background:#151e19dc;border-color:#545c43;color:#bcc7af}
+.popup .brand{min-height:116px;margin:-12px -10px 0;padding:13px 10px;background-image:linear-gradient(90deg,#101613 0%,#101613d9 34%,#1016131a 64%),var(--field-operators);background-size:cover;background-position:center top;align-items:flex-end;border-bottom:1px solid #505c42}
+.popup .brand-mark{width:34px;height:34px}
+.popup .brand h1{font-size:23px;text-shadow:0 1px 8px #000}
+.popup .brand small{font-size:8px;color:#d5ddcc}
+.popup .icon-link{align-self:flex-start;background:#111915b8}
+.popup .account-line{color:#c6ccbb;background:#10171380;padding-top:3px;padding-bottom:3px}
+.popup-stats{border-color:#4a5140;background:#151d17e8}
+.popup-stats>div{border-color:#4a5140}
+.popup-stats span{color:#bdc5ae}
+.popup .run-card{background:#141d17ed;border-color:#4b5940;border-left-color:#bedb76}
+.popup .run-card p{color:#cbd2c1}
+.popup .primary{min-height:44px;padding:10px 25px}
+.popup .button-row button{min-height:34px}
+.popup-source summary,.popup-source p,.popup .footnote{color:#b0baa5}
+.popup .link-button{color:#d2e4ad;border-color:#515c43}
+.popup-footer{border-color:#515c43}
+.popup-footer .creator-mini small,.popup-footer .footer-utility a{color:#b7c0ab}
+.popup-footer .social-links a{background:#1a261de8;border-color:#505c43}
+.dashboard{background-color:#101512;background-image:linear-gradient(#101512d9,#101512 620px),var(--field-operators);background-repeat:no-repeat;background-size:100% auto;background-position:right top;background-attachment:fixed}
+.desk-sidebar{background:#141b17f5;border-color:#3d4936}
+.intro{position:relative;isolation:isolate;display:block;margin:23px 0 20px;min-height:300px;padding:28px 30px 23px;border:1px solid #4b5740;background-image:linear-gradient(90deg,#121b17f5 0%,#121b17e6 34%,#121b1714 78%),var(--field-operators);background-position:center,right top;background-size:cover;overflow:hidden}
+.intro>div:first-child{max-width:65%}
+.intro h2{font-size:clamp(32px,3.2vw,48px);margin:13px 0 13px;text-shadow:0 2px 15px #0006}
+.intro p{max-width:365px;line-height:1.9;color:#c4cdb9}
+.intro-actions{justify-content:flex-start;max-width:none;margin-top:21px;padding:0}
+.intro-actions .primary{min-width:162px}
+.intro .eyebrow{color:#bed0a4}
+.intro:after{content:"HACKCLAW / STINGER";position:absolute;right:18px;bottom:16px;font:600 8px/1.5 var(--display);letter-spacing:1.2px;color:#d4dcc7;text-shadow:0 2px 8px #000}
+.card{background-color:#181f19f5;border-color:#414d38}
+.stats-grid{border-color:#48543c}
+.stats-grid article{background:#1a221bed;border-color:#48543c}
+.runner-bar{background:#1c281deb;border-color:#4d6140}
+.source-presets{padding:13px 0 3px;border-top:1px solid #3c4933;margin-top:14px}
+.source-presets>label{display:block;font-size:11px;color:#c7d1ba}
+.source-presets select{width:100%;margin-top:7px}
+.source-presets p{font-size:10px;color:#9fac91;line-height:1.8;margin-top:7px}
+.source-form .primary{padding-left:25px;padding-right:25px}
+.research-import{margin-top:14px;padding-top:12px;border-top:1px solid #3c4933}.research-import button{font-size:10px;min-height:33px}.research-import .hint{margin-top:7px}
+.guide{background-image:linear-gradient(#111811de,#111811 400px),var(--field-operators);background-size:100% auto;background-repeat:no-repeat;background-position:right top}
+@media(max-width:850px){.intro{min-height:320px;padding:25px 22px;background-position:center,right top}.intro>div:first-child{max-width:78%}.intro h2{font-size:37px}.intro-actions{max-width:340px}.intro:after{font-size:7px;right:12px;bottom:9px}}
+@media(max-width:560px){.intro{margin-top:18px;padding:23px 19px;min-height:340px;background-image:linear-gradient(90deg,#121b17ed 0%,#121b17bb 50%,#121b1750),var(--field-operators)}.intro>div:first-child{max-width:100%}.intro h2{font-size:35px}.intro p{max-width:260px}.intro-actions{max-width:265px}.intro:after{font-size:6px}}
+@media(forced-colors:active){.primary,.secondary{border:1px solid ButtonText;background-image:none}.popup,.intro{background-image:none}}

diff --git a/extension/popup.html b/extension/popup.html
@@ -1,7 +1,7 @@
 <!doctype html>
-<html lang="vi"><head><meta charset="utf-8"><meta name="viewport" content="width=device-width,initial-scale=1"><title>Code Desk · Điều khiển nhanh</title><link rel="stylesheet" href="style.css"><link rel="stylesheet" href="tactical.css"></head>
+<html lang="vi"><head><meta charset="utf-8"><meta name="viewport" content="width=device-width,initial-scale=1"><title>Code Desk · Điều khiển nhanh</title><link rel="stylesheet" href="style.css"><link rel="stylesheet" href="tactical.css"><link rel="stylesheet" href="field.css"></head>
 <body class="popup">
-<div class="popup-topline"><span>DELTA FORCE / GARENA VN</span><span>1.1.2 BETA</span></div>
+<div class="popup-topline"><span>DELTA FORCE / GARENA VN</span><span>1.2.0 BETA</span></div>
 <header class="brand"><img class="brand-mark" src="icons/48.png" width="48" height="48" alt="Icon Code Desk"><div><small>CỦ CẢI PHẪN NỘ</small><h1>CODE DESK<span class="brand-dot">.</span></h1></div><a class="icon-link" href="help.html" target="_blank" rel="noopener" aria-label="Hướng dẫn sử dụng">?</a></header>
 <main><div id="account" class="account-line">Dùng phiên đăng nhập trên Garena</div><div class="popup-stats"><div><span>CHỜ ĐỔI</span><b id="waiting">0</b></div><div><span>ĐÃ NHẬN</span><b id="redeemed">0</b></div><div><span>BỎ QUA</span><b id="skipped">0</b></div></div>
 <section class="run-card"><div class="eyebrow" id="run-status">SẴN SÀNG</div><p id="run-reason">Đang đọc danh sách…</p><div class="pulse-line"><i></i><span id="current-code">Mỗi lần một code · Nhớ kết quả</span></div></section>

diff --git a/extension/options.js b/extension/options.js
@@ -115,6 +115,20 @@ el("save-settings").addEventListener("click", async () => {
   const result = await action("SAVE_SETTINGS", { settings: { dailyEnabled: el("daily-enabled").checked, autoRedeem: el("auto-redeem").checked, dailyHour, dailyMinute, delaySeconds: Number(el("delay").value) } }, "Đã lưu lịch theo giờ Việt Nam.");
   if (result) { loadedSettings = false; await refresh(); }
 });
+const sourceSuggestions = GCASourceSuggestions.presets;
+el("source-preset").addEventListener("change", () => {
+  const preset = sourceSuggestions[el("source-preset").value];
+  if (!preset) return;
+  el("source-name").value = preset.name;
+  el("source-url").value = preset.url;
+  el("source-kind").value = "html";
+  el("source-selector").value = preset.selector;
+});
+el("research-codes").addEventListener("click", () => {
+  el("import-text").value = GCASourceSuggestions.priorityCodes.join("\n");
+  el("import-text").focus();
+  Desk.message("Đã dán 2 mã khảo sát ngày 18/10. Bấm Thêm vào hàng chờ để nhập; Garena sẽ xác nhận hiệu lực khi đổi.");
+});
 el("add-source-toggle").addEventListener("click", () => { el("source-form").hidden = !el("source-form").hidden; });
 el("source-form").addEventListener("submit", async event => {
   event.preventDefault();

diff --git a/extension/source-suggestions.js b/extension/source-suggestions.js
@@ -1,0 +1,11 @@
+(function (root) {
+  "use strict";
+  // Public HTML reviewed on this date. Presence in a list is not redemption proof.
+  const presets = {
+    codemoi: { name: "Code Mới · Delta Force", url: "https://codemoi.net/games/delta-force/", kind: "html", selector: "code" },
+    fpt: { name: "FPT Shop · Delta Force", url: "https://fptshop.com.vn/tin-tuc/danh-gia/code-delta-force-184570", kind: "html", selector: "#article-detail table tr:not(:first-child) > :first-child" },
+    dienmayxanh: { name: "Điện máy XANH · Delta Force", url: "https://www.dienmayxanh.com/kinh-nghiem-hay/code-delta-force-garena-moi-nhat-1591472", kind: "html", selector: ".contentnews table tbody tr > td:first-child" }
+  };
+  for (const value of Object.values(presets)) Object.freeze(value);
+  root.GCASourceSuggestions = Object.freeze({ checkedAt: "2026-10-18", presets: Object.freeze(presets), priorityCodes: Object.freeze(["WELCOMETODF", "DFVNA4T8Z6P3"]) });
+})(globalThis);
